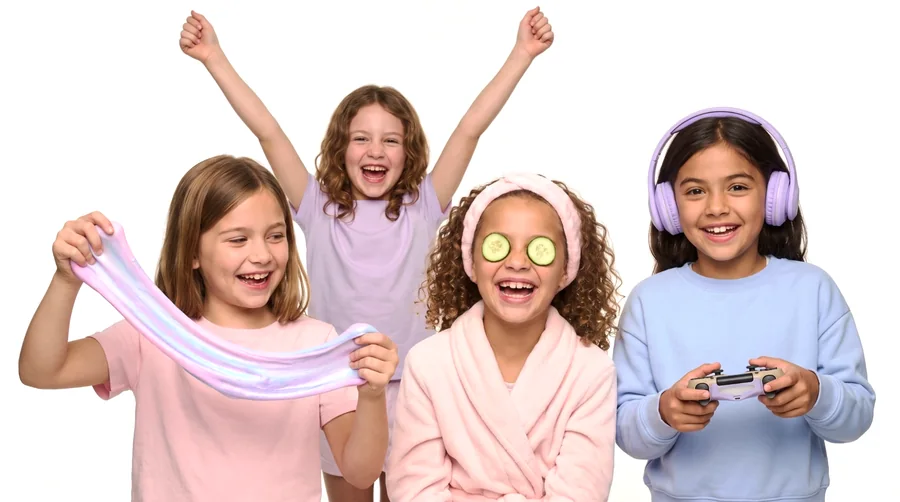
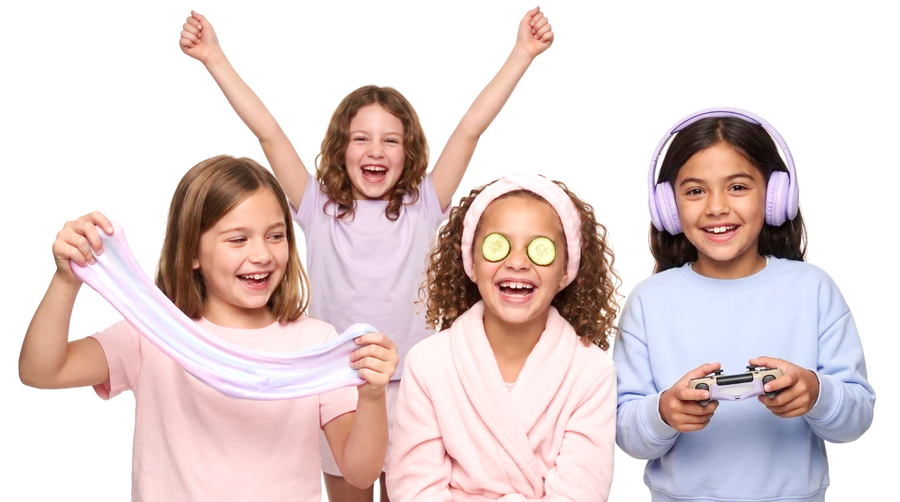
Hero mais leve: imagem com transparencia, fitas e objetos em camada propria, sem loops caros
Claude-Session: https://claude.ai/code/session_01UfCPTK9cNX9mekVV4gPsg6

diff --git a/assets/css/styles.css b/assets/css/styles.css
@@ -212,27 +212,29 @@ main > section { position: relative; z-index: 1; max-width: var(--max); margin: 
 .hero__cena { position: absolute; top: 92px; bottom: 0; right: calc(50% - 50vw); width: 60vw; pointer-events: none; }
 .hero__cena .obj, .hero__cena .nv { pointer-events: auto; }
 .hero__aura {
-  position: absolute; inset: 6% 0 12% 6%; filter: blur(12px);
+  position: absolute; inset: 6% 0 12% 6%; /* sem filter: blur, os gradientes já são suaves e o desfoque custava caro */
   background:
     radial-gradient(42% 48% at 50% 46%, rgba(233, 216, 255, .9), rgba(233, 216, 255, 0) 70%),
     radial-gradient(28% 34% at 82% 38%, rgba(205, 238, 255, .85), rgba(205, 238, 255, 0) 70%),
     radial-gradient(30% 34% at 22% 64%, rgba(255, 214, 236, .85), rgba(255, 214, 236, 0) 70%);
 }
-.hero__fitas { position: absolute; left: -6%; top: 4%; width: 108%; height: auto; overflow: visible; }
+.hero__fitas { position: absolute; left: -6%; top: 4%; width: 108%; height: auto; overflow: visible; will-change: transform; } /* camada própria: o parallax move-a sem repintar as fitas */
 .fita { fill: none; stroke: url(#g-fita); stroke-linecap: round; }
 .fita--1 { stroke-width: 44; opacity: .55; }
 .fita--2 { stroke-width: 20; opacity: .5; }
-.fita-brilho { fill: none; stroke: #fff; stroke-width: 3; stroke-linecap: round; opacity: .9; stroke-dasharray: 80 1400; animation: fita 7s linear infinite; }
+.fita-brilho { fill: none; stroke: #fff; stroke-width: 3; stroke-linecap: round; opacity: .9; stroke-dasharray: 80 1400; animation: fita 7s linear 2; } /* duas passagens e para: em loop repintava a cena inteira */
 @keyframes fita { to { stroke-dashoffset: -1480; } }
 
 .hero__criancas, .hero__fx { position: absolute; left: -3%; width: 106%; bottom: 8%; aspect-ratio: 1600 / 893; }
-.hero__criancas { display: block; mix-blend-mode: multiply; }
+.hero__criancas { display: block; } /* imagem já com fundo transparente: sem mix-blend-mode, que obrigava a repintar a cena a cada frame */
 .hero__criancas img, .clone { -webkit-mask-image: linear-gradient(to bottom, #000 76%, transparent 98%); mask-image: linear-gradient(to bottom, #000 76%, transparent 98%); }
 .hero__criancas img { display: block; width: 100%; }
 
 /* Recortes da própria fotografia, alinhados ao píxel, que se mexem por cima do original */
-.clone { position: absolute; inset: 0; background: url("../img/hero-criancas.webp") 0 0 / 100% 100% no-repeat; pointer-events: none; }
-.clone--slime { clip-path: polygon(9% 48%, 14% 43%, 18% 52%, 23% 60%, 30% 64%, 37% 64%, 41% 66%, 41% 72%, 35% 76%, 27% 75%, 19% 68%, 13% 60%, 9% 55%); filter: url(#f-gosma); }
+.clone { position: absolute; inset: 0; background: url("../img/hero-criancas.webp") 0 0 / 100% 100% no-repeat; pointer-events: none; visibility: hidden; }
+.clone.ativo { visibility: visible; } /* só aparecem durante o efeito */
+.clone--slime { clip-path: polygon(9% 48%, 14% 43%, 18% 52%, 23% 60%, 30% 64%, 37% 64%, 41% 66%, 41% 72%, 35% 76%, 27% 75%, 19% 68%, 13% 60%, 9% 55%); }
+.clone--slime.ativo { filter: url(#f-gosma); } /* o filtro de ondulação só existe enquanto o efeito corre */
 .pe1 { clip-path: ellipse(1.75% 3.1% at 55.1% 49.3%); transform-origin: 55.1% 49.3%; }
 .pe2 { clip-path: ellipse(1.8% 3.2% at 60.1% 50%); transform-origin: 60.1% 50%; }
 .fo1 { clip-path: ellipse(2.1% 7.2% at 72.3% 38%); transform-origin: 72.3% 38%; }
@@ -272,6 +274,7 @@ main > section { position: relative; z-index: 1; max-width: var(--max); margin: 
 @keyframes brilha { 0%, 100% { opacity: .35; transform: scale(.75); } 50% { opacity: 1; transform: scale(1.1); } }
 
 .hero__o { position: absolute; z-index: 2; }
+.hero__cena > .obj[data-depth] { will-change: transform; } /* parallax no compositor */
 .hero__o > svg { animation: flutua 6s ease-in-out infinite; }
 .hero__o--comando { top: 3%; right: 13%; width: 15%; }
 .hero__o--comando > svg { animation-name: flutua2; animation-duration: 7s; }

diff --git a/assets/js/hero-fx.js b/assets/js/hero-fx.js
@@ -91,9 +91,10 @@
       confettis(21, 4, 16); confettis(60, 4, 16);
     },
     slime: function () { // a gosma ondula e regressa com elasticidade
-      var mapa = $("#gosma-mapa"), ruido = $("#gosma-ruido");
+      var mapa = $("#gosma-mapa"), ruido = $("#gosma-ruido"), clone = $(".clone--slime");
       gsap.killTweensOf([mapa, ruido]);
-      gsap.timeline()
+      clone.classList.add("ativo");
+      gsap.timeline({ onComplete: function () { clone.classList.remove("ativo"); } })
         .to(mapa, { attr: { scale: 22 }, duration: 0.3, ease: "power2.out" })
         .to(ruido, { attr: { baseFrequency: "0.02 0.05" }, duration: 0.9, ease: "sine.inOut" }, 0)
         .to(mapa, { attr: { scale: 0 }, duration: 1.4, ease: "elastic.out(1, 0.3)" })
@@ -110,7 +111,10 @@
       brilhos([[52, 44], [57.5, 41], [63, 45], [55, 56], [61, 57]], "#A6E3A1");
     },
     fone: function () { // os auscultadores pulsam ao ritmo e saem notas
-      pulso($$(".clone--fone"), 3, 1.1);
+      var fones = $$(".clone--fone");
+      fones.forEach(function (c) { c.classList.add("ativo"); });
+      setTimeout(function () { fones.forEach(function (c) { c.classList.remove("ativo"); }); }, 950);
+      pulso(fones, 3, 1.1);
       notas(73, 30); setTimeout(function () { notas(88, 29); }, 220);
     },
     comando: function () { // brilho leve à volta das mãos e faíscas suaves, sem mexer a fotografia
@@ -138,7 +142,7 @@
     var cv = $("#rasto");
     if (!cv || !temRato) { if (cv) cv.remove(); return; }
     var hero = $(".hero");
-    var ctx = cv.getContext("2d"), dpr = Math.min(window.devicePixelRatio || 1, 2);
+    var ctx = cv.getContext("2d"), dpr = 1; // estrelas pequenas: resolução 1x chega e poupa muito trabalho
     var parts = [], ultimo = null, aCorrer = false;
     var dim = function () { cv.width = innerWidth * dpr; cv.height = innerHeight * dpr; ctx.setTransform(dpr, 0, 0, dpr, 0, 0); };
     dim(); addEventListener("resize", dim);

diff --git a/assets/js/main.js b/assets/js/main.js
@@ -416,10 +416,19 @@
         gsap.fromTo(el, { y: -v * 200 }, { y: v * 200, ease: "none", scrollTrigger: { trigger: el.parentElement, start: "top bottom", end: "bottom top", scrub: true } });
       });
       // Rato no hero
-      var hero = $(".hero"), camadas = $$(".hero__cena [data-depth]");
+      // quickTo reutiliza uma única animação por camada, em vez de criar dezenas de tweens por segundo
+      var hero = $(".hero"), camadas = $$(".hero__cena [data-depth]").map(function (c) {
+        return { d: +c.getAttribute("data-depth"), x: gsap.quickTo(c, "x", { duration: 0.9, ease: "power2.out" }), y: gsap.quickTo(c, "y", { duration: 0.9, ease: "power2.out" }) };
+      });
+      var pedido = false, ex = 0, ey = 0;
       var mover = function (e) {
-        var x = e.clientX / window.innerWidth - 0.5, y = e.clientY / window.innerHeight - 0.5;
-        camadas.forEach(function (c) { var d = +c.getAttribute("data-depth"); gsap.to(c, { x: x * d * 50, y: y * d * 40, duration: 1, ease: "power2.out", overwrite: "auto" }); });
+        ex = e.clientX; ey = e.clientY;
+        if (pedido) return; pedido = true;
+        requestAnimationFrame(function () {
+          pedido = false;
+          var x = ex / window.innerWidth - 0.5, y = ey / window.innerHeight - 0.5;
+          camadas.forEach(function (c) { c.x(x * c.d * 50); c.y(y * c.d * 40); });
+        });
       };
       if (temRato) hero.addEventListener("pointermove", mover);
       // Linha da jornada

diff --git a/index.html b/index.html
@@ -109,7 +109,7 @@
 
         <div class="hero__aura" aria-hidden="true"></div>
 
-        <div class="hero__criancas" data-depth="0.06">
+        <div class="hero__criancas">
           <img src="assets/img/hero-criancas.webp" srcset="assets/img/hero-criancas-900.webp 900w, assets/img/hero-criancas.webp 1600w" sizes="(max-width: 900px) 110vw, 66vw"
                alt="Quatro crianças a divertir-se: uma estica slime, outra celebra de braços no ar, outra tem rodelas de pepino nos olhos e a última joga com um comando e auscultadores" width="1600" height="893" fetchpriority="high">
           <!-- recortes da própria foto que ganham vida ao passar o rato -->
@@ -117,7 +117,7 @@
           <span class="clone clone--fone fo1" aria-hidden="true"></span><span class="clone clone--fone fo2" aria-hidden="true"></span>
           <span class="luz-comando" aria-hidden="true"></span>
         </div>
-        <div class="hero__fx" data-depth="0.06" aria-hidden="true">
+        <div class="hero__fx" aria-hidden="true">
           <span class="hs" data-fx="festa" style="left:28%;top:0;width:24%;height:52%"></span>
           <span class="hs" data-fx="festa" style="left:15%;top:0;width:11%;height:16%"></span>
           <span class="hs" data-fx="festa" style="left:54%;top:0;width:11%;height:16%"></span>
